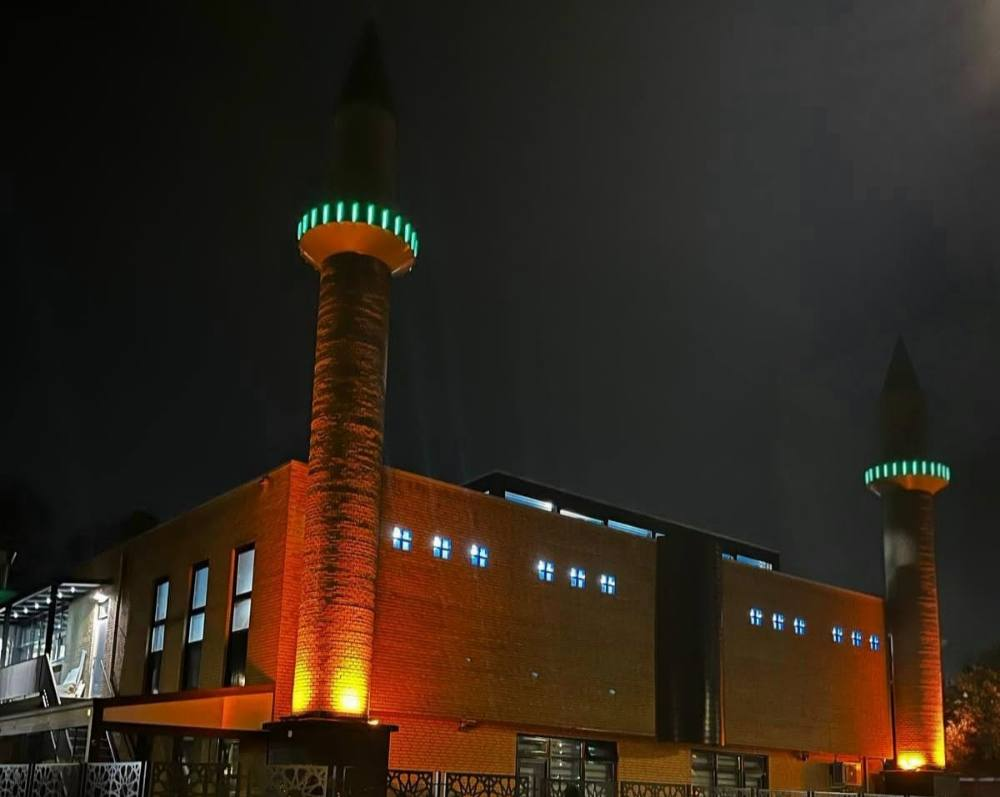
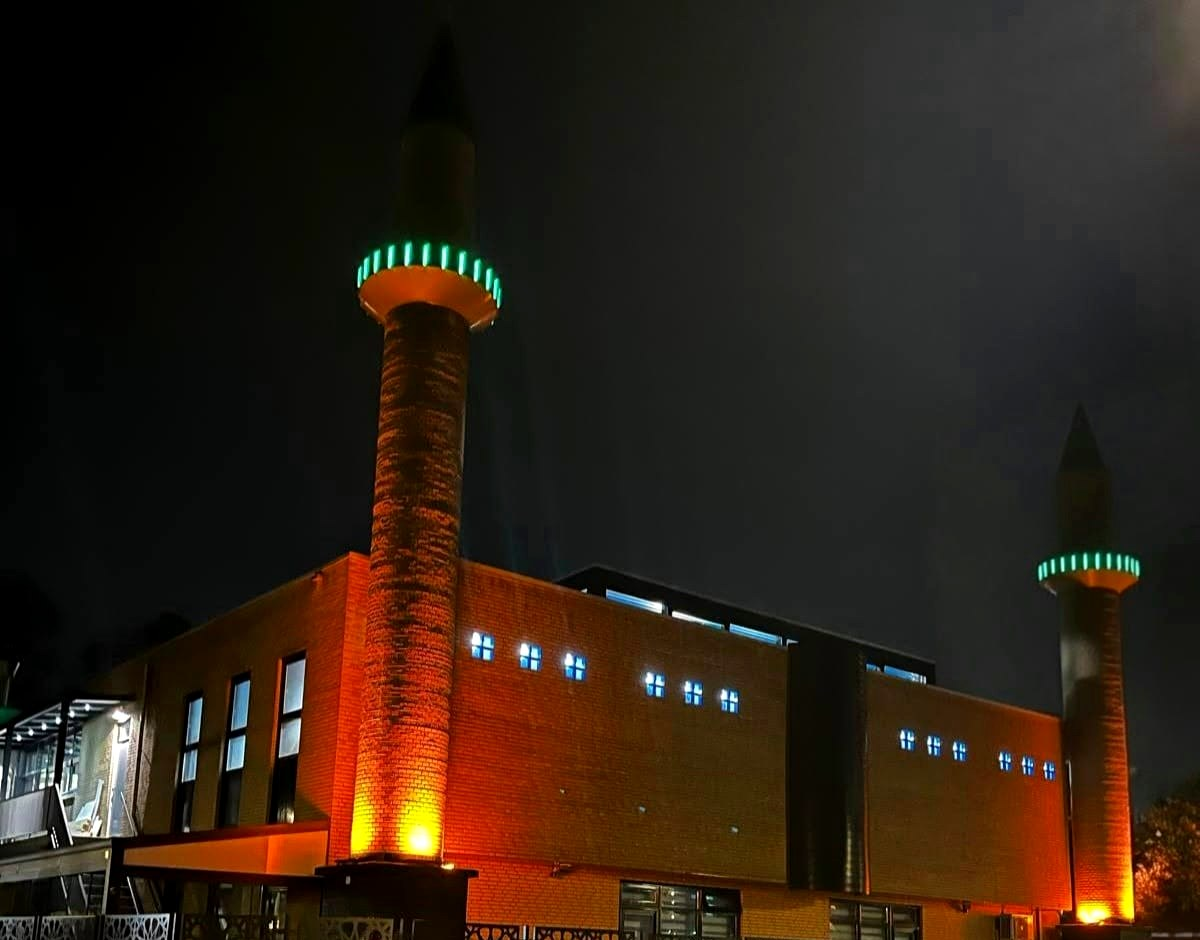
Uygulama Tema 2 (örnek resimler gibi): kartta altın çerçeve, caminin bütün fotoğrafı olduğu gibi (daha iyi kalite), kalan süre sarı, kerahat kartta tek beyaz cümle; liste üstü yuvarlak, altı düz yaprak (zemin ve menüyle birleşir)

diff --git a/mobil/app.css b/mobil/app.css
@@ -64,11 +64,11 @@
    içinde caminin gece fotoğrafı (sağda bütün cami) ve solda sıradaki vakit; altında kerahat ve 7 vakitlik liste.
    Gündüz: yeşil bant, krem zemin. Gece: yeşil değil, koyu temaların standart nötr renkleri. ---------- */
 :root[data-stil="liste"], :root[data-stil="liste"][data-tema="gunduz"] {
-  --ground: #F4EEE0; --ink: #17321D; --soft: #55625A; --line: #E4DAC4; --gold: #946F25; --goldLine: rgba(160,124,51,.42);
-  --cobalt: #235A2C; --turq: #2A6E35; --coral: #B3342A; --sun: #D9962F; --card: #FFFDF7;
-  --rail: #ECE4D2; --railActive: rgba(35,90,44,.10); --nextRow: rgba(35,90,44,.10); --nextBorder: rgba(35,90,44,.38);
-  --tabBg: rgba(244,238,224,.96); --patternOp: .14; --past: #55625A;
-  --segBg: #E8DFCB; --segOn: #FFFDF7; --segShadow: 0 1px 2px rgba(23,50,29,.18);
+  --ground: #FBF9F4; --ink: #17321D; --soft: #55625A; --line: #E7E0D0; --gold: #946F25; --goldLine: rgba(160,124,51,.42);
+  --cobalt: #235A2C; --turq: #2A6E35; --coral: #B3342A; --sun: #D9962F; --card: #FFFFFF;
+  --rail: #F1ECE0; --railActive: rgba(35,90,44,.10); --nextRow: rgba(35,90,44,.10); --nextBorder: rgba(35,90,44,.38);
+  --tabBg: rgba(251,249,244,.97); --patternOp: .14; --past: #55625A;
+  --segBg: #EDE6D6; --segOn: #FFFFFF; --segShadow: 0 1px 2px rgba(23,50,29,.18);
   --navy: #1B4A24; --navyLine: transparent; --anahtarKapali: #C8BFA9;
   --g-herkes: #17321D; --g-erkekler: #235A2C; --tablo-cizgi: #EAE1CD; --tablo-sutun: #EFE8D8; --saat-yazi: #5E6B60; --vakit-yazi: #8E6A2A;
   --kahraman0: #06170C; --kahraman1: #0E2A16; --kahraman2: #1D4F28; --kahramanYazi: #F8F2E4; --kahramanAltin: #E6C47A;
@@ -88,7 +88,7 @@
   --kahraman0: #000000; --kahraman1: #141414; --kahraman2: #262626; --kahramanYazi: #F5F5F5; --kahramanAltin: #E0BD70;
   --kerahatZemin: rgba(224,189,112,.08); --kerahatCizgi: rgba(224,189,112,.28); --kerahatIcZemin: rgba(240,139,110,.10); --kerahatIcCizgi: rgba(240,139,110,.42);
   --listeGolge: none;
-  --bant: #1C1C1E; --ustZemin: #1C1C1E; --kartRGB: 12, 12, 14; --bantYazi: #F2F2F2; --bantAltin: #E0BD70;
+  --bant: #232325; --ustZemin: #232325; --kartRGB: 12, 12, 14; --bantYazi: #F2F2F2; --bantAltin: #E0BD70;
   color-scheme: dark;
 }
 
@@ -593,7 +593,7 @@ html.kaydirma-yok, html.kaydirma-yok body { overflow: hidden; overscroll-behavio
 
 /* ================= Tema 2 (data-stil="liste"): ana ekran ================= */
 /* Tema 1'de (Klasik) görünmeyen parçalar */
-.sira-etiket, .kalan-kisa, .kerahat, .tarih-kisa { display: none; }
+.sira-etiket, .kalan-kisa, .kh-cumle, .tarih-kisa { display: none; }
 .ust-ad b { font-weight: inherit; }
 
 :root[data-stil="liste"] .sekme-ana { isolation: isolate; }
@@ -610,27 +610,22 @@ html.kaydirma-yok, html.kaydirma-yok body { overflow: hidden; overscroll-behavio
 :root[data-stil="liste"] .kemer-svg, :root[data-stil="liste"] .kalan-etiket, :root[data-stil="liste"] .sira-saat, :root[data-stil="liste"] .kalan-kisa { display: none; }
 :root[data-stil="liste"] .kemer { width: auto; height: auto; margin: 14px 0 0; }
 :root[data-stil="liste"] .kemer-ic {
-  position: relative; top: auto; display: grid; grid-template-columns: auto minmax(0, 1fr); grid-template-areas: "etiket etiket" "ad ar" "sayac sayac";
-  justify-items: start; align-content: center; align-items: baseline; column-gap: 10px;
-  min-height: 178px; padding: 18px 20px; border-radius: 22px; overflow: hidden; text-align: left; color: var(--kahramanYazi);
-  background: rgb(var(--kartRGB));
-  border: 1px solid rgba(230,196,122,.22); box-shadow: 0 14px 28px rgba(0,0,0,.22); animation: nzRise .6s both;
+  position: relative; top: auto; display: grid; grid-template-columns: auto minmax(0, 1fr); grid-template-areas: "etiket etiket" "ad ar" "sayac sayac" "kerahat kerahat";
+  justify-items: start; align-content: start; align-items: baseline; column-gap: 10px;
+  aspect-ratio: 1200 / 940; padding: 18px 20px; border-radius: 22px; overflow: hidden; text-align: left; color: var(--kahramanYazi);
+  background: url(/mobil/cami-gece.jpg) center / cover no-repeat, #0B0B0D;
+  border: 1.5px solid rgba(230,196,122,.85); box-shadow: 0 12px 26px rgba(0,0,0,.28); animation: nzRise .6s both;
 }
-/* fotoğraf: sağda, bütün cami görünür; sol kenarı kartın rengine yumuşakça karışır (tema ne olursa olsun) */
-:root[data-stil="liste"] .kemer-ic::before { content: ""; position: absolute; top: 0; right: 0; bottom: 0; aspect-ratio: 1000 / 797; z-index: 0; pointer-events: none;
-  background: linear-gradient(rgba(var(--kartRGB), .25), rgba(var(--kartRGB), .25)), url(/mobil/cami-gece.jpg) center / cover no-repeat;
-  -webkit-mask-image: linear-gradient(90deg, transparent 0%, rgba(0,0,0,.55) 22%, #000 45%); mask-image: linear-gradient(90deg, transparent 0%, rgba(0,0,0,.55) 22%, #000 45%); }
-:root[data-stil="liste"] .kemer-ic > * { position: relative; z-index: 1; }
-:root[data-stil="liste"] .kemer-ic > .sira { position: static; }
-:root[data-stil="liste"] .kemer-ic > .sira > * { position: relative; z-index: 1; text-shadow: 0 2px 10px rgba(0,0,0,.45); }
-:root[data-stil="liste"] .sayac { text-shadow: 0 2px 12px rgba(0,0,0,.45); }
+:root[data-stil="liste"] .kemer-ic > * { text-shadow: 0 1px 2px rgba(0,0,0,.9), 0 2px 12px rgba(0,0,0,.75); }
 :root[data-stil="liste"] .sira-etiket { display: block; grid-area: etiket; font-size: 11.5px; font-weight: 700; letter-spacing: .18em; text-transform: uppercase; color: var(--kahramanAltin); }
 :root[data-stil="liste"] .sira { display: contents; }
 :root[data-stil="liste"] .sira-ad { grid-area: ad; margin-top: 4px; font-family: 'Oswald', 'Arial Narrow', sans-serif; font-weight: 600; font-size: 34px; line-height: 1.1;
   letter-spacing: .01em; text-transform: uppercase; white-space: nowrap; }
 :root[data-stil="liste"] .sira-ar { grid-area: ar; font-family: 'Amiri', 'Traditional Arabic', serif; font-weight: 700; font-size: 24px; line-height: 1.1; color: var(--kahramanAltin); white-space: nowrap; }
 :root[data-stil="liste"] .sayac { grid-area: sayac; margin-top: 6px; font-family: 'Oswald', 'Arial Narrow', sans-serif; font-weight: 500; font-size: 44px; line-height: 1;
-  letter-spacing: .01em; color: var(--kahramanYazi); font-variant-numeric: tabular-nums; }
+  letter-spacing: .01em; color: var(--kahramanAltin); font-variant-numeric: tabular-nums; }
+:root[data-stil="liste"] .kh-cumle { display: block; grid-area: kerahat; margin-top: 8px; font-size: 13.5px; font-weight: 600; line-height: 1.3; color: #FFFFFF; }
+:root[data-stil="liste"] .kh-cumle[hidden] { display: none; }
 
 /* yeşil bant (gece: nötr koyu): üstten kartın altına kadar; JS (app.js anaSigdir) yüksekliği --bant-yuk olarak yazar. Yatay tablette yok. */
 @media not all and (min-width: 1000px) and (orientation: landscape) {
@@ -645,25 +640,8 @@ html.kaydirma-yok, html.kaydirma-yok body { overflow: hidden; overscroll-behavio
   :root[data-stil="liste"] .kemer-ic { box-shadow: 0 10px 24px rgba(0,0,0,.25); }
 }
 
-/* kerahat: Sabah ve İkindi vaktinde kerahate, kerahatin içinde bitişine kalan süre */
-:root[data-stil="liste"] .kerahat { display: flex; align-items: center; gap: 12px; margin-top: 22px; padding: 10px 14px 10px 12px; border-radius: 16px;
-  background: var(--kerahatZemin); border: 1px solid var(--kerahatCizgi); animation: nzRise .5s both; }
-:root[data-stil="liste"] .kerahat[hidden] { display: none; }
-:root[data-stil="liste"] .kh-ikon { flex: 0 0 auto; width: 34px; height: 34px; border-radius: 50%; display: flex; align-items: center; justify-content: center;
-  color: var(--gold); background: var(--card); box-shadow: inset 0 0 0 1px var(--kerahatCizgi); }
-:root[data-stil="liste"] .kh-ikon svg { width: 20px; height: 20px; }
-:root[data-stil="liste"] .kh-yazi { display: flex; flex-direction: column; gap: 1px; min-width: 0; flex: 1; }
-:root[data-stil="liste"] .kh-etiket { font-size: 12px; line-height: 1.3; font-weight: 700; letter-spacing: .08em; text-transform: uppercase; color: var(--ink); }
-:root[data-stil="liste"] .kh-alt { font-size: 12.5px; line-height: 1.35; color: var(--soft); }
-:root[data-stil="liste"] .kh-sayac { flex: 0 0 auto; font-family: 'Oswald', 'Arial Narrow', sans-serif; font-weight: 600; font-size: 26px; line-height: 1;
-  color: var(--gold); font-variant-numeric: tabular-nums; }
-:root[data-stil="liste"] .kerahat.icinde { background: var(--kerahatIcZemin); border-color: var(--kerahatIcCizgi); }
-:root[data-stil="liste"] .kerahat.icinde .kh-ikon { color: var(--coral); box-shadow: inset 0 0 0 1px var(--kerahatIcCizgi); }
-:root[data-stil="liste"] .kerahat.icinde .kh-sayac { color: var(--coral); }
-
 /* vakitler: tek kartta 7 satır; her vaktin simgesi, ad ve Arapça ad (büyük), saat, zil. Sıradaki vurgulu; geçmiş vakitler soluk değil */
 :root[data-stil="liste"] .vakitler { margin-top: 22px; gap: 0; padding: 4px 8px; background: var(--card); border: 1px solid var(--line); border-radius: 22px; box-shadow: var(--listeGolge); }
-:root[data-stil="liste"] .kerahat:not([hidden]) + .vakitler, :root[data-stil="liste"] .kerahat:not([hidden]) ~ .vakitler { margin-top: 12px; }
 :root[data-stil="liste"] .vakit { display: flex; align-items: center; gap: 12px; height: var(--satir, 56px); padding: 0 8px 0 10px; border-radius: 14px;
   box-shadow: none; position: relative; }
 :root[data-stil="liste"] .vakit + .vakit::before { content: ""; position: absolute; left: 10px; right: 10px; top: 0; border-top: 1px solid var(--line); }
@@ -692,7 +670,7 @@ html.kaydirma-yok, html.kaydirma-yok body { overflow: hidden; overscroll-behavio
 :root[data-stil="liste"] .vakit.siradaki .v-saat { font-weight: 600; }
 :root[data-stil="liste"] .ilk .vakit { animation: listeGel .5s both; }
 @keyframes listeGel { from { opacity: 0; transform: translateY(6px); } to { opacity: 1; transform: none; } }
-@media (prefers-reduced-motion: reduce) { :root[data-stil="liste"] .kemer-ic, :root[data-stil="liste"] .kerahat, :root[data-stil="liste"] .ilk .vakit { animation: none; } }
+@media (prefers-reduced-motion: reduce) { :root[data-stil="liste"] .kemer-ic, :root[data-stil="liste"] .ilk .vakit { animation: none; } }
 
 /* telefon: logo solda; yanında ad, altında tarih; sonra kart, kerahat, liste (tam genişlik) */
 @media (max-width: 767px) {
@@ -703,13 +681,18 @@ html.kaydirma-yok, html.kaydirma-yok body { overflow: hidden; overscroll-behavio
   :root[data-stil="liste"] .tarih-satir { grid-column: 2; grid-row: 2; margin: 3px 0 0; align-self: start; }
   :root[data-stil="liste"] .tarih-satir .cizgi { display: none; }
   :root[data-stil="liste"] .tarih { align-items: flex-start; text-align: left; }
-  :root[data-stil="liste"] .ams-not, :root[data-stil="liste"] .kemer, :root[data-stil="liste"] .kerahat,
+  :root[data-stil="liste"] .ams-not, :root[data-stil="liste"] .kemer,
   :root[data-stil="liste"] .vakitler, :root[data-stil="liste"] .durum-mesaj { grid-column: 1 / -1; }
+  /* liste: örnekteki gibi yaprak; üst köşeler yuvarlak, alt düz (zeminle ve menüyle birleşir), kenardan kenara */
+  :root[data-stil="liste"] .sekme-ana { padding-bottom: 0; }
+  :root[data-stil="liste"] .vakitler { margin: 18px -18px 0; padding: 12px 18px 8px; border: 0; border-radius: 26px 26px 0 0; background: var(--ground); box-shadow: none; }
+  :root[data-stil="liste"] .sekme-ana::before { border-radius: 0; }
+  :root[data-stil="liste"] .menu { border-top-color: var(--line); }
   :root[data-stil="liste"] .ams-not { text-align: left; }
 }
 /* kısa telefon ekranı: kart biraz alçak */
 @media (max-width: 767px) and (max-height: 700px) {
-  :root[data-stil="liste"] .kemer-ic { min-height: 150px; padding-top: 14px; padding-bottom: 14px; }
+  :root[data-stil="liste"] .kemer-ic { aspect-ratio: 1200 / 820; padding-top: 14px; padding-bottom: 14px; }
   :root[data-stil="liste"] .sira-ad { font-size: 30px; }
   :root[data-stil="liste"] .sayac { font-size: 38px; margin-top: 4px; }
   :root[data-stil="liste"] .v-ad { font-size: 18px; }
@@ -721,17 +704,13 @@ html.kaydirma-yok, html.kaydirma-yok body { overflow: hidden; overscroll-behavio
   :root[data-stil="liste"] .tarih { align-items: center; }
   :root[data-stil="liste"] .tarih-kisa { font-size: 15px; }
   :root[data-stil="liste"] .kemer { width: 100%; margin: 0; }
-  :root[data-stil="liste"] .kemer-ic { min-height: 260px; padding: 28px 32px; border-radius: 26px; }
+  :root[data-stil="liste"] .kemer-ic { aspect-ratio: 1200 / 940; padding: 28px 32px; border-radius: 26px; }
+  :root[data-stil="liste"] .kh-cumle { font-size: 16px; margin-top: 10px; }
   :root[data-stil="liste"] .sira-etiket { font-size: 13px; }
   :root[data-stil="liste"] .sira-ad { font-size: 54px; }
   :root[data-stil="liste"] .sira-ar { font-size: 36px; }
   :root[data-stil="liste"] .sayac { font-size: 66px; margin-top: 8px; }
-  :root[data-stil="liste"] .kerahat { margin-top: 6px; padding: 12px 18px 12px 14px; }
-  :root[data-stil="liste"] .kh-etiket { font-size: 13px; }
-  :root[data-stil="liste"] .kh-alt { font-size: 13.5px; }
-  :root[data-stil="liste"] .kh-sayac { font-size: 30px; }
   :root[data-stil="liste"] .vakitler { display: flex; flex-direction: column; margin: 0; padding: 6px 12px; }
-  :root[data-stil="liste"] .kerahat:not([hidden]) ~ .vakitler { margin-top: 0; }
   :root[data-stil="liste"] .vakit { --satir: 64px; height: var(--satir); padding: 0 12px 0 14px; background: transparent; border: 0; border-radius: 16px; box-shadow: none; }
   :root[data-stil="liste"] .vakit.siradaki { background: var(--nextRow); box-shadow: inset 0 0 0 1px var(--nextBorder); }
   :root[data-stil="liste"] .v-metin { flex-wrap: nowrap; align-items: baseline; }
@@ -746,7 +725,7 @@ html.kaydirma-yok, html.kaydirma-yok body { overflow: hidden; overscroll-behavio
 }
 /* yatay tablet: solda kart (dar sütun), sağda liste; yeşil bant yok */
 @media (min-width: 1000px) and (orientation: landscape) {
-  :root[data-stil="liste"] .kemer-ic { min-height: 280px; padding: 26px 26px; }
+  :root[data-stil="liste"] .kemer-ic { aspect-ratio: 1200 / 940; padding: 26px 26px; background-position: center; }
   :root[data-stil="liste"] .sira-ad { font-size: 42px; }
   :root[data-stil="liste"] .sira-ar { font-size: 30px; }
   :root[data-stil="liste"] .sayac { font-size: 54px; }

diff --git a/tests/mobil/davranis.spec.js b/tests/mobil/davranis.spec.js
@@ -401,7 +401,7 @@ test.describe('Tema 2', () => {
     expect(await page.evaluate(() => document.documentElement.hasAttribute('data-stil'))).toBe(false);
   });
 
-  test('ana ekran (örnek resim gibi): yeşil bantta logo + ad ve tek satır tarih; fotoğraflı kartta solda sıradaki vakit, ad ve Arapça yan yana, kalan süre; kerahat; 7 vakit', async ({ page }) => {
+  test('ana ekran (örnek resim gibi): yeşil bantta logo + ad ve tek satır tarih; altın çerçeveli kartta bütün cami fotoğrafı, solda sıradaki vakit, ad ve Arapça yan yana, sarı kalan süre, kerahat cümlesi; altta üstü yuvarlak yaprakta 7 vakit', async ({ page }) => {
     await mobilAc(page, { zaman: an('16:00:00.500'), depo: { 'nzm.stil': 'liste', 'nzm.dil': 'tr', 'nzm.tema': 'gunduz' } });
     await expect(page.locator('.kemer-svg')).toBeHidden();
     await expect(page.locator('.tarih-kisa')).toHaveText('17 Jumada al-Awwal 1448 H • 28 Eki 2026');
@@ -410,28 +410,43 @@ test.describe('Tema 2', () => {
     await expect(page.locator('.sira-ad')).toHaveText('Akşam');
     await expect(page.locator('.sira-ar')).toHaveText('المغرب');
     await expect(page.locator('.sayac')).toHaveText('1:26:59');
-    expect(await page.locator('.kemer-ic').evaluate((e) => getComputedStyle(e, '::before').backgroundImage)).toContain('/mobil/cami-gece.jpg');
+    await expect(page.locator('.kh-cumle')).toHaveText('Kerahat vaktine 0:41:59 kaldı');
+    const st = (s, ps = null) => page.locator(s).evaluate((e, ps) => { const c = getComputedStyle(e, ps); return { bg: c.backgroundImage, renk: c.color, cerceve: c.borderTopColor, ust: c.borderTopLeftRadius, alt: c.borderBottomLeftRadius, zemin: c.backgroundColor, h: c.height }; }, ps);
+    const kartSt = await st('.kemer-ic');
+    expect(kartSt.bg).toContain('/mobil/cami-gece.jpg');
+    expect(kartSt.bg).not.toContain('gradient');                               // fotoğraf olduğu gibi, karartma yok
+    expect(kartSt.cerceve).toBe('rgba(230, 196, 122, 0.85)');                   // altın çerçeve
+    expect((await st('.sayac')).renk).toBe('rgb(230, 196, 122)');              // kalan süre sarı
+    expect((await st('.kh-cumle')).renk).toBe('rgb(255, 255, 255)');          // kerahat cümlesi beyaz
     const k = async (s) => page.locator(s).boundingBox();
-    const [logo, ad, tarih, kart, etiket, sAd, sAr, sayac, kerahat, liste] = await Promise.all(
-      ['.ust img', '.ust-ad', '.tarih-kisa', '.kemer-ic', '.sira-etiket', '.sira-ad', '.sira-ar', '.sayac', '.kerahat', '.vakitler'].map(k));
+    const [logo, ad, tarih, kart, etiket, sAd, sAr, sayac, cumle, liste] = await Promise.all(
+      ['.ust img', '.ust-ad', '.tarih-kisa', '.kemer-ic', '.sira-etiket', '.sira-ad', '.sira-ar', '.sayac', '.kh-cumle', '.vakitler'].map(k));
     expect(ad.x).toBeGreaterThan(logo.x + logo.width);
     expect(tarih.x).toBeGreaterThan(logo.x + logo.width);
     expect(ad.y).toBeLessThan(tarih.y);
     expect(tarih.y + tarih.height).toBeLessThanOrEqual(kart.y);
     expect(tarih.height).toBeLessThan(22);                                     // tek satır
-    // kartta yazılar solda; ad ve Arapça ad yan yana
-    for (const b of [etiket, sAd, sayac]) expect(Math.abs(b.x - etiket.x)).toBeLessThan(2);
+    expect(Math.abs(kart.width / kart.height - 1200 / 940)).toBeLessThan(0.03); // fotoğrafın oranı: bütün cami görünür
+    // kartta yazılar solda; ad ve Arapça ad yan yana; kalan süre altında; kerahat hemen altında
+    for (const b of [sAd, sayac, cumle]) expect(Math.abs(b.x - etiket.x)).toBeLessThan(2);
     expect(etiket.x - kart.x).toBeLessThan(30);
     expect(sAr.x).toBeGreaterThan(sAd.x + sAd.width);
     expect(Math.abs((sAr.y + sAr.height / 2) - (sAd.y + sAd.height / 2))).toBeLessThan(12);
     expect(sAd.y).toBeGreaterThan(etiket.y);
     expect(sayac.y).toBeGreaterThan(sAd.y + sAd.height - 4);
-    // yeşil bant: üstten kartın altına kadar
-    const bant = await page.locator('.sekme-ana').evaluate((e) => { const st = getComputedStyle(e, '::before'); return { renk: st.backgroundColor, yuk: parseFloat(st.height), ust: e.getBoundingClientRect().top }; });
+    expect(cumle.y).toBeGreaterThanOrEqual(sayac.y + sayac.height - 2);
+    expect(cumle.y - (sayac.y + sayac.height)).toBeLessThan(20);
+    // yeşil bant; liste yaprağı: kenardan kenara, üst köşeler yuvarlak, alt düz; bant yaprağın üst köşelerinin arkasına kadar
+    const bant = await page.locator('.sekme-ana').evaluate((e) => { const c = getComputedStyle(e, '::before'); return { renk: c.backgroundColor, yuk: parseFloat(c.height), ust: e.getBoundingClientRect().top }; });
     expect(bant.renk).toBe('rgb(31, 77, 43)');
-    expect(bant.ust + bant.yuk).toBeGreaterThanOrEqual(kart.y + kart.height);
-    expect(bant.ust + bant.yuk).toBeLessThanOrEqual(kerahat.y);
-    expect(kerahat.y + kerahat.height).toBeLessThanOrEqual(liste.y);
+    expect(bant.ust + bant.yuk).toBeGreaterThan(liste.y + 20);
+    expect(bant.ust + bant.yuk).toBeLessThan(liste.y + 60);
+    const yaprak = await st('.vakitler');
+    expect(yaprak.ust).toBe('26px');
+    expect(yaprak.alt).toBe('0px');
+    expect(liste.x).toBe(0);
+    expect(liste.width).toBe(390);
+    expect(liste.y).toBeGreaterThan(kart.y + kart.height);
     await expect(page.locator('.vakit:not([hidden]) .v-ad')).toHaveText(['İmsak', 'Sabah', 'Güneş', 'Öğle', 'İkindi', 'Akşam', 'Yatsı']);
     await expect(page.locator('.vakit.siradaki .v-ad')).toHaveText('Akşam');
     expect(parseFloat(await page.locator('.v-ad').first().evaluate((e) => getComputedStyle(e).fontSize))).toBeGreaterThanOrEqual(20);   // büyük adlar
@@ -453,34 +468,29 @@ test.describe('Tema 2', () => {
     await expect(page.locator('.tarih-kisa')).toHaveText('17 Jumada al-Awwal 1448 AH • 28 okt 2026');
     const renk = (s, o) => page.locator(s).evaluate((e, o) => getComputedStyle(e, o.ps)[o.ozellik], o);
     expect(await renk('body', { ps: null, ozellik: 'backgroundColor' })).toBe('rgb(18, 18, 18)');
-    expect(await renk('.sekme-ana', { ps: '::before', ozellik: 'backgroundColor' })).toBe('rgb(28, 28, 30)');
-    expect(await renk('.vakitler', { ps: null, ozellik: 'backgroundColor' })).toBe('rgb(30, 30, 30)');
-    expect(await page.locator('meta[name="theme-color"]').getAttribute('content')).toBe('#1C1C1E');
+    expect(await renk('.sekme-ana', { ps: '::before', ozellik: 'backgroundColor' })).toBe('rgb(35, 35, 37)');
+    expect(await renk('.vakitler', { ps: null, ozellik: 'backgroundColor' })).toBe('rgb(18, 18, 18)');
+    expect(await page.locator('meta[name="theme-color"]').getAttribute('content')).toBe('#232325');
   });
 
-  test('kerahat: Sabah ve İkindi vaktinde kerahate, kerahatte bitişine kalan süre; başka zaman ve Thema 1\'de yok', async ({ page }) => {
-    const ac = (saat, ek = {}) => mobilAc(page, { zaman: an(saat), depo: { 'nzm.stil': 'liste', 'nzm.dil': 'tr', ...ek } });
-    const kh = page.locator('.kerahat');
+  test('kerahat: Sabah ve İkindi vaktinde kartta tek cümle (kerahate ya da bitişine kalan süre); başka zaman ve Thema 1\'de yok', async ({ page }) => {
+    const ac = (saat) => mobilAc(page, { zaman: an(saat), depo: { 'nzm.stil': 'liste', 'nzm.dil': 'tr' } });
+    const kh = page.locator('.kh-cumle');
     // 28-10: İmsak 05:34, Güneş 07:21, İkindi 14:54, Akşam 17:27 (kerahat 45 dk)
     await ac('06:40:00.500');
-    await expect(kh).toBeVisible();
+    await expect(kh).toHaveText('Kerahat vaktine 0:40:59 kaldı');
     await expect(kh).not.toHaveClass(/icinde/);
-    await expect(page.locator('.kh-etiket')).toHaveText('Kerahat vaktine kalan');
-    await expect(page.locator('.kh-alt')).toHaveText('Başlangıç 07:21 · güneş doğarken');
-    await expect(page.locator('.kh-sayac')).toHaveText('0:40:59');
     await ac('07:40:00.500');
+    await expect(kh).toHaveText('Kerahat vakti, 0:25:59 sonra bitiyor');
     await expect(kh).toHaveClass(/icinde/);
-    await expect(page.locator('.kh-etiket')).toHaveText('Kerahat vakti');
-    await expect(page.locator('.kh-alt')).toHaveText('Bitiş 08:06 · güneş doğarken');
-    await expect(page.locator('.kh-sayac')).toHaveText('0:25:59');
     await ac('12:00:00.500');
     await expect(kh).toBeHidden();
     await ac('16:50:00.500');
-    await expect(kh).toHaveClass(/icinde/);
-    await expect(page.locator('.kh-alt')).toHaveText('Bitiş 17:27 · güneş batmadan önce');
-    await expect(page.locator('.kh-sayac')).toHaveText('0:36:59');
+    await expect(kh).toHaveText('Kerahat vakti, 0:36:59 sonra bitiyor');
     await ac('21:00:00.500');
     await expect(kh).toBeHidden();
+    await ac('15:00:00.500');
+    await expect(kh).toBeVisible();
     await page.evaluate(() => localStorage.setItem('nzm.stil', 'klasik'));   // Thema 1 (mobilAc depoyu oturumda bir kez yazar)
     await page.reload();
     await expect(page.locator('.vakit')).toHaveCount(7);

diff --git a/mobil/metin.js b/mobil/metin.js
@@ -37,8 +37,7 @@ export const METIN = {
     // Ayarlar
     title: 'Ayarlar', lang: 'DİL', look: 'GÖRÜNÜM', theme: 'Açık / koyu', stil: 'Tasarım', stilKlasik: 'Tema 1', stilListe: 'Tema 2',
     // Tema 2: sıradaki vakit kartı ve kerahat (süre hocaya danışılacak: zaman.js KERAHAT_DK)
-    hicriEk: 'H', kalanSure: 'kalan süre', kerahatOnce: 'Kerahat vaktine kalan', kerahatIcinde: 'Kerahat vakti',
-    kerahatBas: (s) => `Başlangıç ${s}`, kerahatBit: (s) => `Bitiş ${s}`, kerahatDogus: 'güneş doğarken', kerahatBatis: 'güneş batmadan önce',
+    hicriEk: 'H', kalanSure: 'kalan süre', kerahatOnce: (s) => `Kerahat vaktine ${s} kaldı`, kerahatIcinde: (s) => `Kerahat vakti, ${s} sonra bitiyor`,
     auto: 'Otomatik', light: 'Açık', dark: 'Koyu', autoHint: 'Güneş doğunca açık, Akşam vaktinde koyu tema.',
     mosque: 'CAMİ', source: 'Vakitler: Diyanet İşleri Başkanlığı', harita: 'Haritada aç',
   },
@@ -63,8 +62,7 @@ export const METIN = {
     prTitle: 'Programma’s', prSub: 'Wekelijkse lessen en bijeenkomsten',
     prEmpty: 'Nog geen programma’s.', prEmptySub: 'Wekelijkse lessen en bijeenkomsten verschijnen hier zodra ze zijn toegevoegd.',
     title: 'Instellingen', lang: 'TAAL', look: 'WEERGAVE', theme: 'Licht / donker', stil: 'Ontwerp', stilKlasik: 'Thema 1', stilListe: 'Thema 2',
-    hicriEk: 'AH', kalanSure: 'resterend', kerahatOnce: 'Nog tot kerahat-tijd', kerahatIcinde: 'Kerahat-tijd',
-    kerahatBas: (s) => `Begint om ${s}`, kerahatBit: (s) => `Eindigt om ${s}`, kerahatDogus: 'bij zonsopgang', kerahatBatis: 'vóór zonsondergang',
+    hicriEk: 'AH', kalanSure: 'resterend', kerahatOnce: (s) => `Nog ${s} tot de kerahat-tijd`, kerahatIcinde: (s) => `Kerahat-tijd, eindigt over ${s}`,
     auto: 'Automatisch', light: 'Licht', dark: 'Donker', autoHint: 'Licht vanaf zonsopgang, donker vanaf maghrib.',
     mosque: 'MOSKEE', source: 'Gebedstijden: Diyanet', harita: 'Openen in kaart',
   },
@@ -89,8 +87,7 @@ export const METIN = {
     prTitle: 'Programs', prSub: 'Weekly lessons and gatherings',
     prEmpty: 'No programs yet.', prEmptySub: 'Weekly lessons and gatherings will appear here once they are added.',
     title: 'Settings', lang: 'LANGUAGE', look: 'APPEARANCE', theme: 'Light / dark', stil: 'Design', stilKlasik: 'Theme 1', stilListe: 'Theme 2',
-    hicriEk: 'AH', kalanSure: 'remaining', kerahatOnce: 'Time until kerahat', kerahatIcinde: 'Kerahat time',
-    kerahatBas: (s) => `Starts at ${s}`, kerahatBit: (s) => `Ends at ${s}`, kerahatDogus: 'at sunrise', kerahatBatis: 'before sunset',
+    hicriEk: 'AH', kalanSure: 'remaining', kerahatOnce: (s) => `${s} until kerahat time`, kerahatIcinde: (s) => `Kerahat time, ends in ${s}`,
     auto: 'Automatic', light: 'Light', dark: 'Dark', autoHint: 'Light from sunrise, dark from maghrib.',
     mosque: 'MOSQUE', source: 'Prayer times: Diyanet', harita: 'Open in maps',
   },

diff --git a/mobil/app.js b/mobil/app.js
@@ -495,16 +495,13 @@ function ciz() {
 
 // ---------------- Tema 2: kerahat vaktine geri sayım (Sabah ve İkindi vaktinde) ----------------
 function kerahatCiz(simdi, veriVar) {
-  const el = $('.kerahat');
+  const el = $('.kh-cumle');
   const k = veriVar && document.documentElement.dataset.stil === 'liste' ? kerahatDurumu(simdi, durum.olay.bugun) : null;
   if (el.hidden !== !k) el.hidden = !k;
   if (!k) return;
   const t = L();
-  const hm = (ms) => { const p = amsParcalar(ms); return `${pad(p.h)}:${pad(p.mi)}`; };
   el.classList.toggle('icinde', k.tur === 'icinde');
-  $('.kh-etiket', el).textContent = k.tur === 'icinde' ? t.kerahatIcinde : t.kerahatOnce;
-  $('.kh-alt', el).textContent = `${k.tur === 'icinde' ? t.kerahatBit(hm(k.bit)) : t.kerahatBas(hm(k.bas))} · ${k.kerahat === 'dogus' ? t.kerahatDogus : t.kerahatBatis}`;
-  $('.kh-sayac', el).textContent = geriSayim(k.hedef - simdi);
+  el.textContent = (k.tur === 'icinde' ? t.kerahatIcinde : t.kerahatOnce)(geriSayim(k.hedef - simdi));
 }
 
 let _dakika = -1;
@@ -599,7 +596,9 @@ function bantYuksekligi() {
   const ana = $('.sekme-ana');
   if (document.documentElement.dataset.stil !== 'liste') return;
   const k = $('.kemer').getBoundingClientRect(), a = ana.getBoundingClientRect();
-  if (k.height) ana.style.setProperty('--bant-yuk', `${Math.round(k.bottom - a.top + 16)}px`);
+  if (!k.height) return;
+  const alt = tabletMi.matches ? k.bottom + 16 : $('.vakitler').getBoundingClientRect().top + 40;
+  ana.style.setProperty('--bant-yuk', `${Math.round(alt - a.top)}px`);
 }
 function anaSigdir() {
   bantYuksekligi();
@@ -646,6 +645,6 @@ tabletMi.addEventListener('change', anaSigdir);
 if (document.fonts && document.fonts.ready) document.fonts.ready.then(anaSigdir);
 new MutationObserver(() => anaSigdir()).observe($('.vakitler'), { childList: true });
 new MutationObserver(() => anaSigdir()).observe($('.ams-not'), { attributes: true, attributeFilter: ['hidden'] });
-new MutationObserver(() => anaSigdir()).observe($('.kerahat'), { attributes: true, attributeFilter: ['hidden'] });
+new MutationObserver(() => anaSigdir()).observe($('.kh-cumle'), { attributes: true, attributeFilter: ['hidden'] });
 if (window.ResizeObserver) new ResizeObserver(() => bantYuksekligi()).observe($('.kemer'));
 anaSigdir();

diff --git a/mobil/index.html b/mobil/index.html
@@ -110,13 +110,8 @@
           <span class="kalan-kisa" data-t="kalanSure"></span>
           <span class="sira"><span class="sira-ad">&nbsp;</span><span class="sira-saat"></span></span>
           <span class="sira-ar" lang="ar" dir="rtl"></span>
+          <span class="kh-cumle" hidden></span>   <!-- Tema 2: kerahat, tek cümle (app.js kerahatCiz) -->
         </div>
-      </div>
-      <!-- Tema 2: Sabah ve İkindi vaktinde kerahate kalan süre (app.js kerahatCiz) -->
-      <div class="kerahat" hidden>
-        <span class="kh-ikon" aria-hidden="true"><svg viewBox="0 0 24 24" fill="none" stroke="currentColor" stroke-width="1.8" stroke-linecap="round" stroke-linejoin="round"><path d="M6.5 3h11M6.5 21h11M7.5 3v3.2a4.5 4.5 0 0 0 1.8 3.6L12 12l-2.7 2.2a4.5 4.5 0 0 0-1.8 3.6V21M16.5 3v3.2a4.5 4.5 0 0 1-1.8 3.6L12 12l2.7 2.2a4.5 4.5 0 0 1 1.8 3.6V21"/><path d="M9.5 18.5h5" stroke-width="2.4"/></svg></span>
-        <span class="kh-yazi"><span class="kh-etiket"></span><span class="kh-alt"></span></span>
-        <span class="kh-sayac"></span>
       </div>
     </div>
 

diff --git a/mobil/sw.js b/mobil/sw.js
@@ -5,7 +5,7 @@
 // - Yeni sürüm kendiliğinden devreye girmez: sayfa "Yeni sürüm hazır" gösterir, kullanıcı dokununca geçilir.
 // SURUM: uygulama dosyalarının özeti. Dosya değişince `cd tests && node araclar/sw-surum.mjs` ile güncellenir
 // (test, unutulursa kırmızı olur).
-const SURUM = 'ae0da2f3b6';
+const SURUM = '30aea5918d';
 const KABUK = `nzm-kabuk-${SURUM}`;
 const VERI = 'nzm-veri';
 const RESIM = 'nzm-resim';

diff --git a/CLAUDE.md b/CLAUDE.md
@@ -41,8 +41,8 @@
   - Tema 1: kemer, lacivert (eski "Klasik"; varsayılan).
   - Tema 2 (`nzm.stil=liste`, `html[data-stil="liste"]`; eski "Liste"nin yerine): kullanıcının örnek resmine göre; logonun renkleri.
     - Üstte yeşil bant (#1F4D2B; yüksekliği JS'ten `--bant-yuk`): logo + ad, altında tek satır tarih "17 Jumada al-Awwal 1448 AH • 28 okt 2026" (TR'de "H").
-    - Bantta kart: sağda caminin tamamı (`mobil/cami-gece.jpg`, kullanıcının verdiği), solda sıradaki vakit, ad ve Arapça ad yan yana, altında yazısız kalan süre.
-    - Sonra kerahat geri sayımı ve İmsak ile Güneş dahil 7 vakitlik liste (büyük adlar).
+    - Bantta altın çerçeveli kart: arka planı caminin bütün fotoğrafı, olduğu gibi (`mobil/cami-gece.jpg`, kullanıcının verdiği; karartma yok, oran 1200/940). Solda sıradaki vakit, ad ve Arapça ad yan yana, altında yazısız kalan süre (sarı), hemen altında beyaz tek cümle kerahat.
+    - Altta liste: telefonda kenardan kenara yaprak, üst köşeler yuvarlak, alt düz (zeminle ve menüyle birleşir); İmsak ve Güneş dahil 7 vakit (büyük adlar).
     - Gece hali yeşil değil: koyu temaların nötr renkleri (#121212 zemin, #1E1E1E kart, altın vurgu).
     - Kerahat: Sabah vaktinde (İmsak → Güneş) ve İkindi vaktinde kerahate, kerahatin içinde bitişine kalan süre (`zaman.js` `kerahatDurumu`, `KERAHAT_DK = 45`). Süreyi hoca onaylamalı; öğle öncesi (istiva) yok.
   - Geçmiş vakitler hiçbir temada soluk/gri değil.
